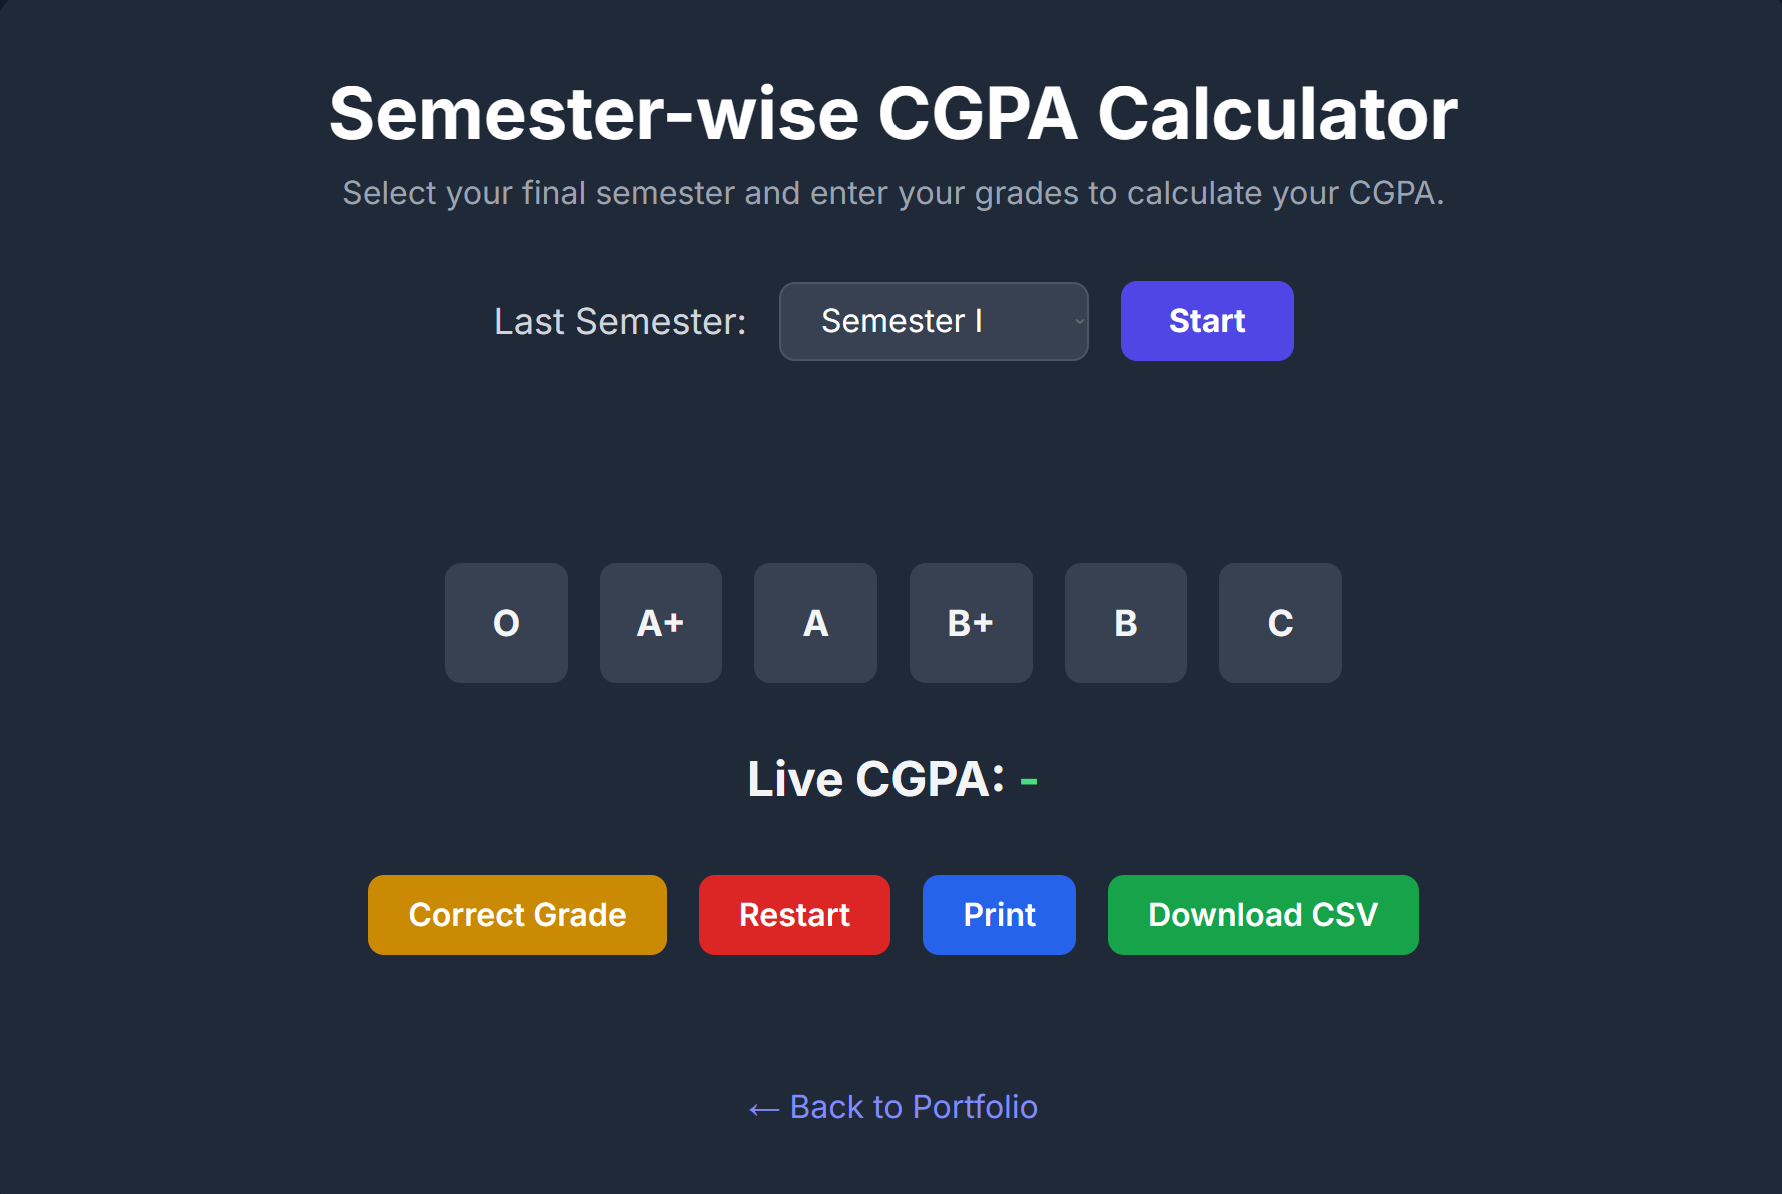
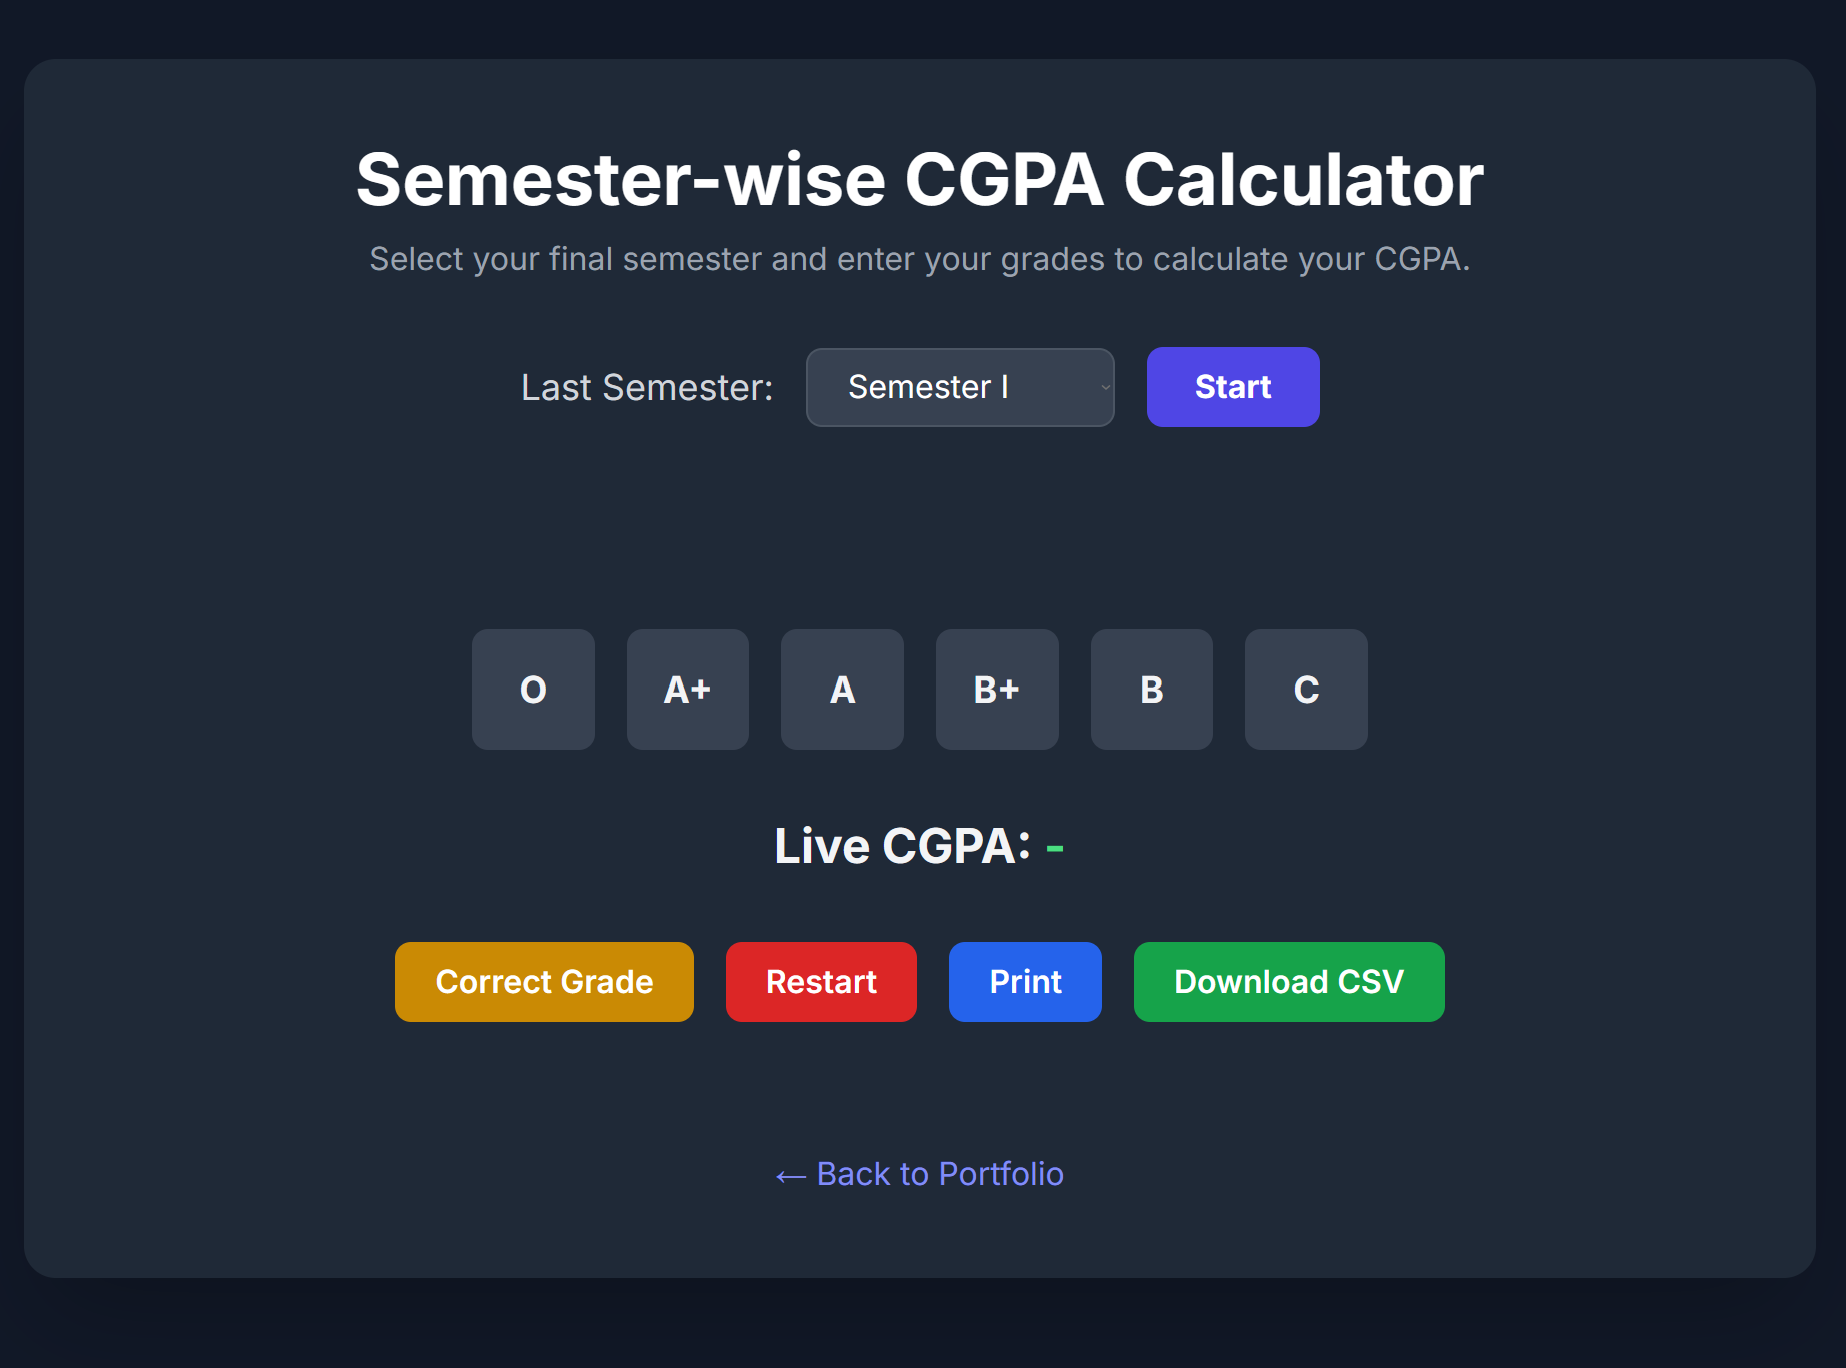
ud

diff --git a/Retired_pages/YT-API_1/index.html b/Retired_pages/YT-API_1/index.html
@@ -98,7 +98,7 @@
 
                     <!-- Project Card 3: CGPA Calculator -->
                     <div class="bg-gray-800 rounded-lg overflow-hidden shadow-lg transform hover:-translate-y-2 transition duration-300">
-                        <img src="https://images.unsplash.com/photo-1501290741223-866b45569426?q=80&w=2070&auto=format&fit=crop" alt="Calculator and notebook" class="w-full h-56 object-cover">
+                        <img src="https://raw.githubusercontent.com/supersk2006/supersk2006.github.io/refs/heads/main/resources/cgpaimg.png" alt="Calculator and notebook" class="w-full h-56 object-cover">
                         <div class="p-6">
                             <h3 class="text-2xl font-bold text-white mb-2">CGPA Calculator</h3>
                             <p class="text-gray-400 mb-4">A web-based tool to help engineering students calculate their CGPA.</p>
